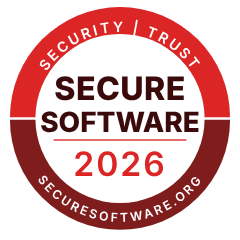
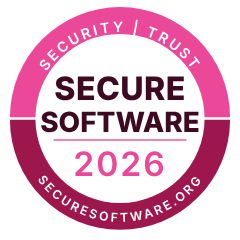
Try pink palette
Claude-Session: https://claude.ai/code/session_01G6gvxkUtkH3PQ2kPFbRBNR

Changed region(s): [[0.0292, 0.0292, 0.9625, 0.9625], [0.2333, 0.5542, 0.7875, 0.7583]]

diff --git a/site.css b/site.css
@@ -1,10 +1,10 @@
 /* Secure Software — shared site styles.
-   Same layout system as securefunder.org / securebroker.org, with a red palette. */
+   Same layout system as securefunder.org / securebroker.org, with a pink palette. */
 :root {
-  --ink: #1C1212; --text: #443535; --muted: #786868; --rule: #EBDCDC; --band: #FDF5F4; --paper: #FFFFFF;
-  --link: #B91C1C; --accent: #B91C1C; --accent-deep: #991B1B; --dark: #2B0909;
-  --highlight: #FCA5A5; --tag: #FECACA;
-  --foot-text: #D8C0C0; --foot-head: #A98F8F; --foot-link: #F7E8E8;
+  --ink: #1E1218; --text: #45353D; --muted: #7A6670; --rule: #EEDCE5; --band: #FDF4F8; --paper: #FFFFFF;
+  --link: #C2185B; --accent: #C2185B; --accent-deep: #9D174D; --dark: #2E0A1C;
+  --highlight: #F9A8D4; --tag: #FBCFE8;
+  --foot-text: #DABFCC; --foot-head: #AA8E9C; --foot-link: #F8E8EF;
   --serif: 'Source Serif 4', Georgia, 'Times New Roman', serif;
   --sans: 'Public Sans', 'Helvetica Neue', Arial, sans-serif;
   --wrap: 1160px;
@@ -66,7 +66,7 @@ h1, h2, h3 { font-family: var(--serif); color: var(--ink); font-weight: 500; mar
 .body p:last-child { margin-bottom: 0; }
 .body strong { color: var(--ink); font-weight: 600; }
 .tag-new { display: inline-block; background: var(--tag); color: var(--ink); font-size: 12px; font-weight: 700; letter-spacing: .08em; text-transform: uppercase; line-height: 1; padding: 6px 9px; margin-bottom: 14px; }
-.soft-mark { background: rgba(252, 165, 165, .5); color: inherit; padding: 1px 4px; border-radius: 3px; }
+.soft-mark { background: rgba(249, 168, 212, .5); color: inherit; padding: 1px 4px; border-radius: 3px; }
 
 .lead { font-family: var(--serif); font-size: 24px; line-height: 1.45; color: var(--ink); margin: 0 0 28px; max-width: 30em; }
 
@@ -90,7 +90,7 @@ h1, h2, h3 { font-family: var(--serif); color: var(--ink); font-weight: 500; mar
 /* Compare (not a checklist) */
 .contrast { display: grid; grid-template-columns: repeat(2, minmax(0, 1fr)); gap: 16px; }
 .contrast > div { border: 1px solid var(--rule); padding: 22px 22px 24px; }
-.contrast .is { border-color: var(--accent); background: #FEF5F5; }
+.contrast .is { border-color: var(--accent); background: #FDF2F7; }
 .contrast h3 { font-family: var(--sans); font-size: 12px; font-weight: 700; letter-spacing: .1em; text-transform: uppercase; color: var(--muted); margin: 0 0 12px; }
 .contrast .is h3 { color: var(--accent); }
 .contrast ul { list-style: none; margin: 0; padding: 0; }

diff --git a/how-it-works/index.html b/how-it-works/index.html
@@ -10,8 +10,8 @@
 <meta property="og:type" content="website">
 <meta property="og:url" content="https://securesoftware.org/how-it-works/">
 <meta property="og:image" content="https://securesoftware.org/og-blank.png">
-<link rel="icon" type="image/png" sizes="32x32" href="../red-rings.png">
-<link rel="apple-touch-icon" sizes="180x180" href="../red-rings.png">
+<link rel="icon" type="image/png" sizes="32x32" href="../pink-rings.png">
+<link rel="apple-touch-icon" sizes="180x180" href="../pink-rings.png">
 <link rel="preconnect" href="https://fonts.googleapis.com">
 <link rel="preconnect" href="https://fonts.gstatic.com" crossorigin>
 <link href="https://fonts.googleapis.com/css2?family=Public+Sans:wght@400;500;600;700&family=Source+Serif+4:opsz,wght@8..60,400;8..60,500;8..60,600;8..60,700&display=swap" rel="stylesheet">
@@ -23,7 +23,7 @@
 
 <header class="nav">
   <div class="wrap">
-    <a class="nav-logo" href="../" aria-label="Secure Software home"><img src="../red-rings.png" alt=""><span>Secure Software<sup>&trade;</sup></span></a>
+    <a class="nav-logo" href="../" aria-label="Secure Software home"><img src="../pink-rings.png" alt=""><span>Secure Software<sup>&trade;</sup></span></a>
     <nav class="nav-links" aria-label="Primary">
       <a href="https://securebroker.org" target="_blank" rel="noopener noreferrer">For Brokers</a>
       <a href="https://securefunder.org" target="_blank" rel="noopener noreferrer">For Funders</a>

diff --git a/directory/index.html b/directory/index.html
@@ -10,8 +10,8 @@
 <meta property="og:type" content="website">
 <meta property="og:url" content="https://securesoftware.org/directory/">
 <meta property="og:image" content="https://securesoftware.org/og-blank.png">
-<link rel="icon" type="image/png" sizes="32x32" href="../red-rings.png">
-<link rel="apple-touch-icon" sizes="180x180" href="../red-rings.png">
+<link rel="icon" type="image/png" sizes="32x32" href="../pink-rings.png">
+<link rel="apple-touch-icon" sizes="180x180" href="../pink-rings.png">
 <link rel="preconnect" href="https://fonts.googleapis.com">
 <link rel="preconnect" href="https://fonts.gstatic.com" crossorigin>
 <link href="https://fonts.googleapis.com/css2?family=Public+Sans:wght@400;500;600;700&family=Source+Serif+4:opsz,wght@8..60,400;8..60,500;8..60,600;8..60,700&display=swap" rel="stylesheet">
@@ -23,7 +23,7 @@
 
 <header class="nav">
   <div class="wrap">
-    <a class="nav-logo" href="../" aria-label="Secure Software home"><img src="../red-rings.png" alt=""><span>Secure Software<sup>&trade;</sup></span></a>
+    <a class="nav-logo" href="../" aria-label="Secure Software home"><img src="../pink-rings.png" alt=""><span>Secure Software<sup>&trade;</sup></span></a>
     <nav class="nav-links" aria-label="Primary">
       <a href="https://securebroker.org" target="_blank" rel="noopener noreferrer">For Brokers</a>
       <a href="https://securefunder.org" target="_blank" rel="noopener noreferrer">For Funders</a>

diff --git a/contact/index.html b/contact/index.html
@@ -10,8 +10,8 @@
 <meta property="og:type" content="website">
 <meta property="og:url" content="https://securesoftware.org/contact/">
 <meta property="og:image" content="https://securesoftware.org/og-blank.png">
-<link rel="icon" type="image/png" sizes="32x32" href="../red-rings.png">
-<link rel="apple-touch-icon" sizes="180x180" href="../red-rings.png">
+<link rel="icon" type="image/png" sizes="32x32" href="../pink-rings.png">
+<link rel="apple-touch-icon" sizes="180x180" href="../pink-rings.png">
 <link rel="preconnect" href="https://fonts.googleapis.com">
 <link rel="preconnect" href="https://fonts.gstatic.com" crossorigin>
 <link href="https://fonts.googleapis.com/css2?family=Public+Sans:wght@400;500;600;700&family=Source+Serif+4:opsz,wght@8..60,400;8..60,500;8..60,600;8..60,700&display=swap" rel="stylesheet">
@@ -23,7 +23,7 @@
 
 <header class="nav">
   <div class="wrap">
-    <a class="nav-logo" href="../" aria-label="Secure Software home"><img src="../red-rings.png" alt=""><span>Secure Software<sup>&trade;</sup></span></a>
+    <a class="nav-logo" href="../" aria-label="Secure Software home"><img src="../pink-rings.png" alt=""><span>Secure Software<sup>&trade;</sup></span></a>
     <nav class="nav-links" aria-label="Primary">
       <a href="https://securebroker.org" target="_blank" rel="noopener noreferrer">For Brokers</a>
       <a href="https://securefunder.org" target="_blank" rel="noopener noreferrer">For Funders</a>

diff --git a/join/index.html b/join/index.html
@@ -10,8 +10,8 @@
 <meta property="og:type" content="website">
 <meta property="og:url" content="https://securesoftware.org/join/">
 <meta property="og:image" content="https://securesoftware.org/og-blank.png">
-<link rel="icon" type="image/png" sizes="32x32" href="../red-rings.png">
-<link rel="apple-touch-icon" sizes="180x180" href="../red-rings.png">
+<link rel="icon" type="image/png" sizes="32x32" href="../pink-rings.png">
+<link rel="apple-touch-icon" sizes="180x180" href="../pink-rings.png">
 <link rel="preconnect" href="https://fonts.googleapis.com">
 <link rel="preconnect" href="https://fonts.gstatic.com" crossorigin>
 <link href="https://fonts.googleapis.com/css2?family=Public+Sans:wght@400;500;600;700&family=Source+Serif+4:opsz,wght@8..60,400;8..60,500;8..60,600;8..60,700&display=swap" rel="stylesheet">
@@ -23,7 +23,7 @@
 
 <header class="nav">
   <div class="wrap">
-    <a class="nav-logo" href="../" aria-label="Secure Software home"><img src="../red-rings.png" alt=""><span>Secure Software<sup>&trade;</sup></span></a>
+    <a class="nav-logo" href="../" aria-label="Secure Software home"><img src="../pink-rings.png" alt=""><span>Secure Software<sup>&trade;</sup></span></a>
     <nav class="nav-links" aria-label="Primary">
       <a href="https://securebroker.org" target="_blank" rel="noopener noreferrer">For Brokers</a>
       <a href="https://securefunder.org" target="_blank" rel="noopener noreferrer">For Funders</a>

diff --git a/index.html b/index.html
@@ -10,8 +10,8 @@
 <meta property="og:type" content="website">
 <meta property="og:url" content="https://securesoftware.org/">
 <meta property="og:image" content="https://securesoftware.org/og-blank.png">
-<link rel="icon" type="image/png" sizes="32x32" href="red-rings.png">
-<link rel="apple-touch-icon" sizes="180x180" href="red-rings.png">
+<link rel="icon" type="image/png" sizes="32x32" href="pink-rings.png">
+<link rel="apple-touch-icon" sizes="180x180" href="pink-rings.png">
 <link rel="preconnect" href="https://fonts.googleapis.com">
 <link rel="preconnect" href="https://fonts.gstatic.com" crossorigin>
 <link href="https://fonts.googleapis.com/css2?family=Public+Sans:wght@400;500;600;700&family=Source+Serif+4:opsz,wght@8..60,400;8..60,500;8..60,600;8..60,700&display=swap" rel="stylesheet">
@@ -23,7 +23,7 @@
 
 <header class="nav">
   <div class="wrap">
-    <a class="nav-logo" href="./" aria-label="Secure Software home"><img src="red-rings.png" alt=""><span>Secure Software<sup>&trade;</sup></span></a>
+    <a class="nav-logo" href="./" aria-label="Secure Software home"><img src="pink-rings.png" alt=""><span>Secure Software<sup>&trade;</sup></span></a>
     <nav class="nav-links" aria-label="Primary">
       <a href="https://securebroker.org" target="_blank" rel="noopener noreferrer">For Brokers</a>
       <a href="https://securefunder.org" target="_blank" rel="noopener noreferrer">For Funders</a>

diff --git a/README.md b/README.md
@@ -1,7 +1,7 @@
 # secure-software-site
 
-Static site for Secure Software™ (securesoftware.org), the software certification in the Secure Broker / Secure Funder family. Same layout system as those sites, with an red palette.
+Static site for Secure Software™ (securesoftware.org), the software certification in the Secure Broker / Secure Funder family. Same layout system as those sites, with an pink palette.
 
 - `site.css`: shared styles; colors are the tokens at the top.
 - Pages: `/`, `/how-it-works/`, `/join/`, `/contact/`, `/directory/`.
-- `src/badge.svg`, `src/rings.svg`: sources for the badge and logo. Re-render the PNGs with `node src/render.js '[["src/badge.svg","secure-software-badge-2026.png",1254],["src/badge.svg","family-of-brands/secure-software-badge.png",240],["src/rings.svg","red-rings.png",500]]'`.
+- `src/badge.svg`, `src/rings.svg`: sources for the badge and logo. Re-render the PNGs with `node src/render.js '[["src/badge.svg","secure-software-badge-2026.png",1254],["src/badge.svg","family-of-brands/secure-software-badge.png",240],["src/rings.svg","pink-rings.png",500]]'`.
